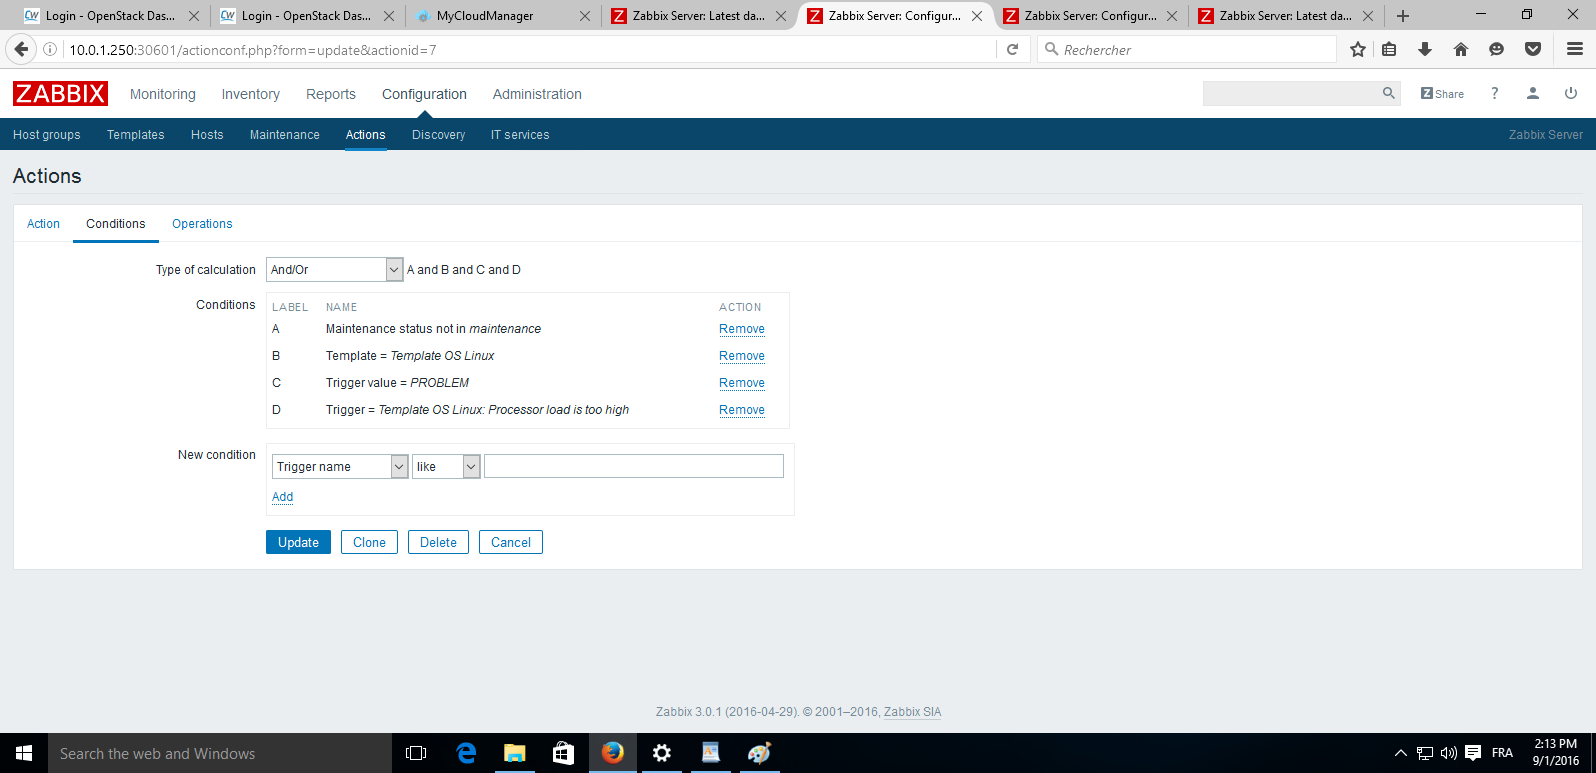
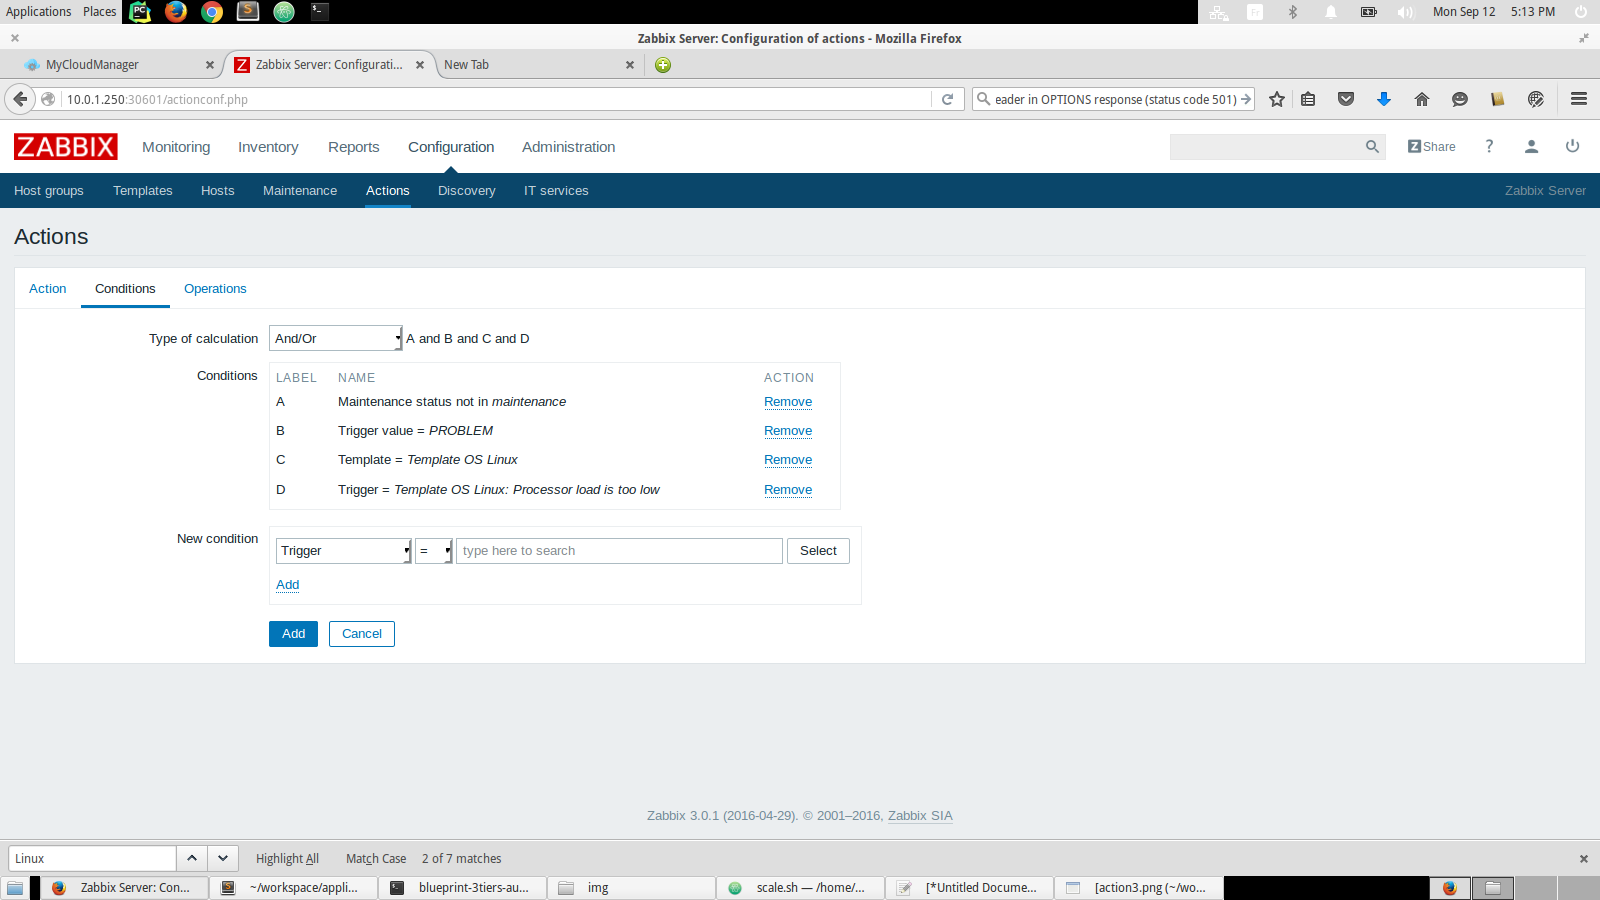
write article fr

diff --git a/blueprint-autoscaling/README.md b/blueprint-autoscaling/README.md
@@ -74,18 +74,14 @@ parameters:
 Avant de lancer la stack ajouter l'autorisation du port 30000 pour le réseau de la stack pour mcm
 
 ~~~bash
-nova secgroup-add-rule SECURITY_GROUP_MCM tcp 30000 30000 cid_net_autoscaling
+$ nova secgroup-add-rule SECURITY_GROUP_MCM tcp 30000 30000 cid_net_autoscaling
 ~~~
+
 Puis dans le shell lancer la commande suivante :
 
-~~~
-heat stack-create nom_de_votre_stack -f blueprint-autoscaling-exemple.heat.yml
-~~~
-
-Exemple :
-
 ~~~bash
-$ heat stack-create mysatck_name -f blueprint-mystart.heat.yml -Pkeypair_name_prefix=préfix -Pnet_cidr=192.168.1.0/24
+$ heat stack-create nom_de_votre_stack -f blueprint-autoscaling-exemple.heat.yaml
+
 +--------------------------------------+-----------------+--------------------+----------------------+
 | id                                   | stack_name      | stack_status       | creation_time        |
 +--------------------------------------+-----------------+--------------------+----------------------+
@@ -97,23 +93,39 @@ Puis attendez quelques minutes que le déploiement soit complet.
 
 ~~~bash
 $ heat resource-list nom_de_votre_stack
-+---------------+--------------------------------------+----------------------------+-----------------+----------------------+
-| resource_name | physical_resource_id                 | resource_type              | resource_status | updated_time         |
-+---------------+--------------------------------------+----------------------------+-----------------+----------------------+
-| keypair       | mystart-mykeypair                    | OS::Nova::KeyPair          | CREATE_COMPLETE | 2016-06-02T16:14:43Z |
-| network       | 165fff85-a6ac-4bdd-ad63-ac2ba8e58f45 | OS::Neutron::Net           | CREATE_COMPLETE | 2016-06-02T16:14:43Z |
-| sg            | 9d5f6961-8eb2-4e59-b637-fa3f70659b55 | OS::Neutron::SecurityGroup | CREATE_COMPLETE | 2016-06-02T16:14:43Z |
-| subnet        | f5d63c5e-1fb5-4ed9-9927-a7025c5dbd95 | OS::Neutron::Subnet        | CREATE_COMPLETE | 2016-06-02T16:14:43Z |
-+---------------+--------------------------------------+----------------------------+-----------------+----------------------+
++-----------------------------+-------------------------------------------------------------------------------------+------------------------------+-----------------+----------------------+
+| resource_name               | physical_resource_id                                                                | resource_type                | resource_status | updated_time         |
++-----------------------------+-------------------------------------------------------------------------------------+------------------------------+-----------------+----------------------+
+| asg                         | bde4a6ff-c684-4458-82fe-358337ff43bb                                                | OS::Heat::AutoScalingGroup   | CREATE_COMPLETE | 2016-09-13T14:30:06Z |
+| interface                   | 602565c8-ee30-4697-8a75-044898f381eb:subnet_id=ad09494b-7d90-4c80-8528-1e4c28df598b | OS::Neutron::RouterInterface | CREATE_COMPLETE | 2016-09-13T14:30:06Z |
+| lb                          |                                                                                     | OS::Neutron::LoadBalancer    | CREATE_COMPLETE | 2016-09-13T14:30:06Z |
+| lb_floating                 | b73ebb6f-b89f-4325-90d0-f68592c2a978                                                | OS::Neutron::FloatingIP      | CREATE_COMPLETE | 2016-09-13T14:30:06Z |
+| net                         | 616c6ae1-1968-40cd-9164-c11f1ee5accd                                                | OS::Neutron::Net             | CREATE_COMPLETE | 2016-09-13T14:30:06Z |
+| pool                        | 93199df3-1e06-4083-bdd1-c2a8d341add8                                                | OS::Neutron::Pool            | CREATE_COMPLETE | 2016-09-13T14:30:06Z |
+| sec_group                   | 13d91e55-5ef1-4e1e-88c5-66e467fef632                                                | OS::Neutron::SecurityGroup   | CREATE_COMPLETE | 2016-09-13T14:30:06Z |
+| subnet                      | ad09494b-7d90-4c80-8528-1e4c28df598b                                                | OS::Neutron::Subnet          | CREATE_COMPLETE | 2016-09-13T14:30:06Z |
+| web_server_scaledown_policy | 599b3a451758428db4d8ae97c611ac9b                                                    | OS::Heat::ScalingPolicy      | CREATE_COMPLETE | 2016-09-13T14:30:06Z |
+| web_server_scaleup_policy   | 9b12ca669d6a4e88b2494671c79a98e6                                                    | OS::Heat::ScalingPolicy      | CREATE_COMPLETE | 2016-09-13T14:30:06Z |
++-----------------------------+-------------------------------------------------------------------------------------+------------------------------+-----------------+----------------------+
+
 ~~~
 
 
 #### 3) Ajouter les noeuds à Zabbix de MycloudManager
 
-![mcm](img/images-2.jpg)
+Install zabbix agent dans les instances via l'interface web de MyCloudManager
+![mcm](img/ajouterinstances.png)
 
 #### 4) Mise à jour le template OS Linux Zabbix
-![template](img/images-2.jpg)
+Mettez à jour le template OS Linux, ce template contient un nouveau item et 2 neaveaux triggers afin de calculer la pourcentage d'utilsation du cpu dans chaque 1 Minutes.
+
+
+![template1](img/updatetemp1.png)
+
+Puis sélectionnez le tempate et cliquez sur import
+
+![template2](img/updatetemp2.png)
+
 
 #### 5) Créer les Actions scale up et scale download
 
@@ -128,6 +140,19 @@ pour savoir url scaling down
 ~~~bash
 openstack stack output show  -f json  autoscale scale_dn_url | jq '.output_value' | sed -e 's/^"//'  -e 's/"$//'
 ~~~
+
+les étapes pour créer les actions:
+
+![action1](img/hostgroups.png)
+
+![action2](img/action1.png)
+
+![action3](img/action2.png)
+
+![action4](img/action3.png)
+
+![action5](img/action4.png)
+
 
 N'oubliez pas de ajouter chaque nouveau scalé à zabbix dans le Host Groupe de votre stack
 
